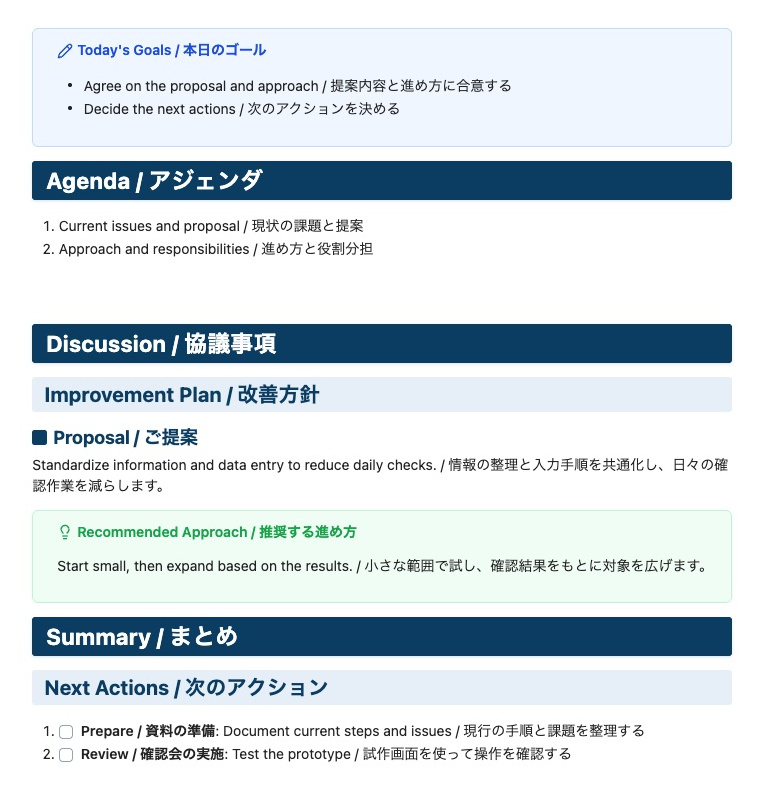
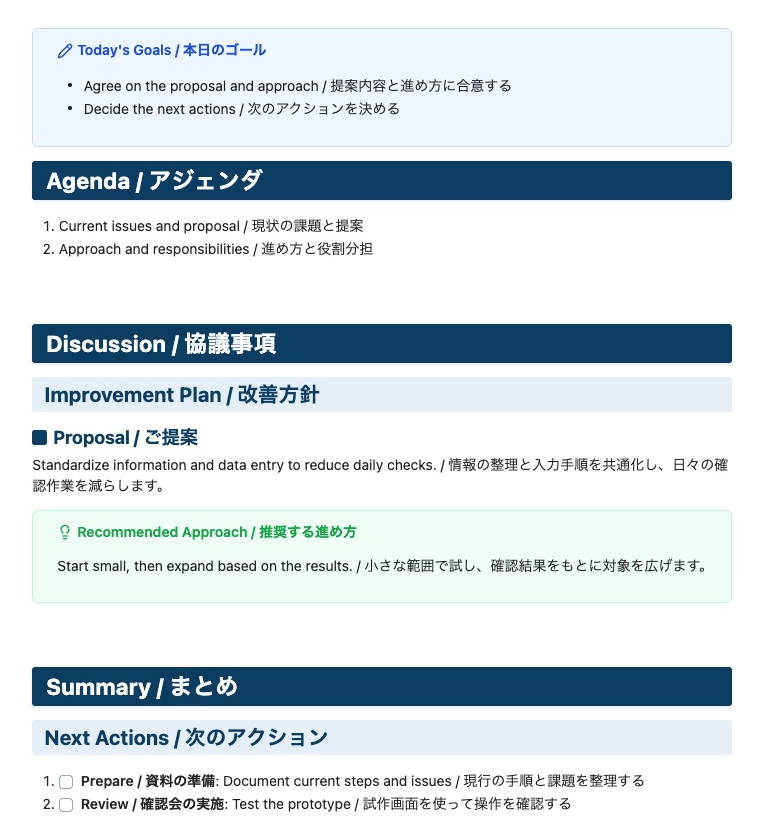
文書: 1.1.1の公開情報と余白修正後の画像を更新

diff --git a/README.md b/README.md
@@ -78,7 +78,7 @@ Screen spacing separates chapters without adding manual blank lines. In PDF expo
 | Callout → H2–H6 | Same as after a paragraph or table | Keep with following content where possible |
 | Consecutive headings | Compact | Keep headings with following content where possible |
 
-See [1.1.0 release notes](./CHANGELOG.md).
+See [1.1.1 release notes](./CHANGELOG.md).
 
 **日本語**
 
@@ -93,7 +93,7 @@ See [1.1.0 release notes](./CHANGELOG.md).
 | コールアウト→H2〜H6 | 本文・テーブル後と同じ間隔 | 後続の内容と同じページになるよう調整 |
 | 見出しが続く箇所 | 通常の間隔 | 見出しがページ末尾に孤立しないよう調整 |
 
-[1.1.0の変更履歴](./CHANGELOG.md)。
+[1.1.1の変更履歴](./CHANGELOG.md)。
 
 #### Light / ライト
 
@@ -307,11 +307,11 @@ An implementation plan with a comparison table, recommendation and danger callou
 
 #### Light / ライト
 
-![English UI Sample - Light Mode](./assets/ui-sample-en-light.png?v=1.1.0)
+![English UI Sample - Light Mode](./assets/ui-sample-en-light.png?v=1.1.1)
 
 #### Dark / ダーク
 
-![English UI Sample - Dark Mode](./assets/ui-sample-en-dark.png?v=1.1.0)
+![English UI Sample - Dark Mode](./assets/ui-sample-en-dark.png?v=1.1.1)
 
 ---
 
@@ -327,11 +327,11 @@ The same document structure in Japanese, including red bold highlighting and com
 
 #### Light / ライト
 
-![Japanese UI Sample - Light Mode](./assets/ui-sample-ja-light.png?v=1.1.0)
+![Japanese UI Sample - Light Mode](./assets/ui-sample-ja-light.png?v=1.1.1)
 
 #### Dark / ダーク
 
-![Japanese UI Sample - Dark Mode](./assets/ui-sample-ja-dark.png?v=1.1.0)
+![Japanese UI Sample - Dark Mode](./assets/ui-sample-ja-dark.png?v=1.1.1)
 
 ### 3. Live Preview / ライブプレビュー
 
@@ -343,7 +343,7 @@ The Japanese sample in Live Preview. Spacing is aligned with Reading view; Markd
 
 日本語サンプルをライブプレビューで表示した例です。閲覧時に近い余白で編集できます。カーソル行のMarkdown記号や、一部のエディター固有要素には表示差が残ります。
 
-![Japanese UI Sample - Live Preview](./assets/ui-sample-ja-live-preview.png?v=1.1.0)
+![Japanese UI Sample - Live Preview](./assets/ui-sample-ja-live-preview.png?v=1.1.1)
 
 ### Screenshot Details / 撮影情報
 

diff --git a/CHANGELOG.md b/CHANGELOG.md
@@ -1,6 +1,6 @@
 # Changelog / 変更履歴
 
-## Unreleased / 未公開
+## 1.1.1
 
 - Match heading spacing after callouts to paragraphs and tables in Reading and Live Preview, while keeping the opening H1 and adjacent headings compact. / 閲覧・ライブプレビューでコールアウト後の見出し余白を本文・テーブル後と統一し、冒頭のH1と見出しが連続する箇所はコンパクトに保ちます。
 
